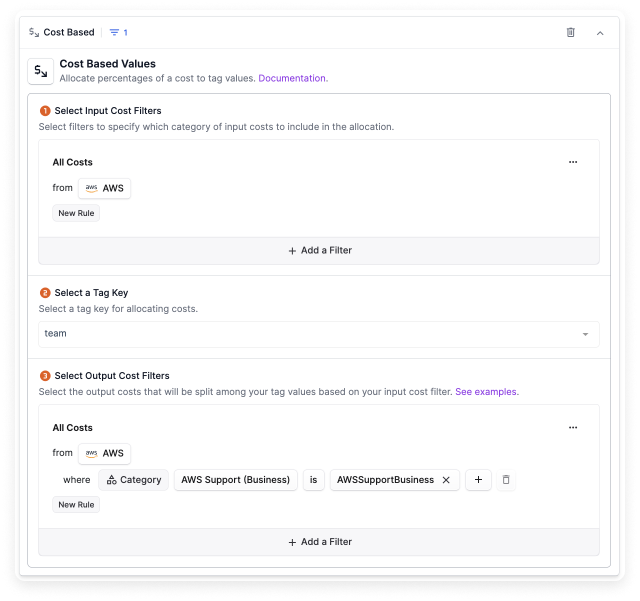
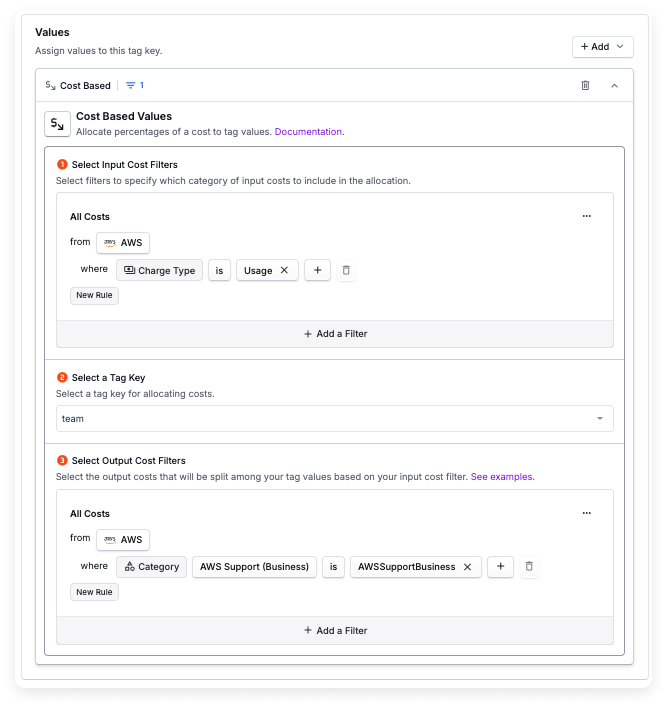
Add notes re: charge type usage for allocation

diff --git a/docs/virtual_tagging.md b/docs/virtual_tagging.md
@@ -94,8 +94,8 @@ This feature requires _Owner_ permissions in Vantage. See the [Role-Based Access
    <TabItem value="cost" label="Add Cost Based Value" default>
    <ol>
    <li>Select <strong>Cost Based</strong>.</li>
-   <li>Select an <strong>Input Costs Filter</strong> to specify which category of input costs to include in the allocation. These filters function just like filters on Cost Reports and cost allocation segments. For information on how to create detailed filters, see the <a href="/cost_reports">Cost Reports</a> documentation.</li>
-   <li>Select an existing cost <strong>Tag Key</strong>. This value is an existing tag you have in one of your cost providers, like AWS.</li>
+   <li>Select an <strong>Input Costs Filter</strong> to specify which category of input costs to include in the allocation. These filters function just like filters on Cost Reports and cost allocation segments. For information on how to create detailed filters, see the <a href="/cost_reports">Cost Reports</a> documentation. <br/><blockquote><i><b>Tip:</b> For most use cases, you should set a filter for <b>Charge Type = Usage</b> on the input filter to ensure you are matching on only usage-related costs and ignoring costs related to items like credits, taxes, fees, etc.</i></blockquote></li>
+   <li>Select an existing cost <strong>Tag Key</strong>. This value can be an existing tag you have in one of your cost providers, like AWS.</li>
    <li>Select the <strong>Output Costs Filter</strong> to indicate the costs that will be split among your tag values based on your input cost filter.</li>
    </ol>
    </TabItem>
@@ -217,7 +217,7 @@ You have an existing provider tag in AWS that identifies resources for your team
 
 #### Step 2: Select an Input Cost Filter
 
-For your input cost, select **All AWS Costs**.
+For your input cost, select **All AWS Costs**. Set an additional filter for the **Usage** charge type to filter on only usage-related costs. This filter will ignore costs related to items like credits, taxes, fees, etc.
 
 #### Step 3: Select a Tag Key
 
